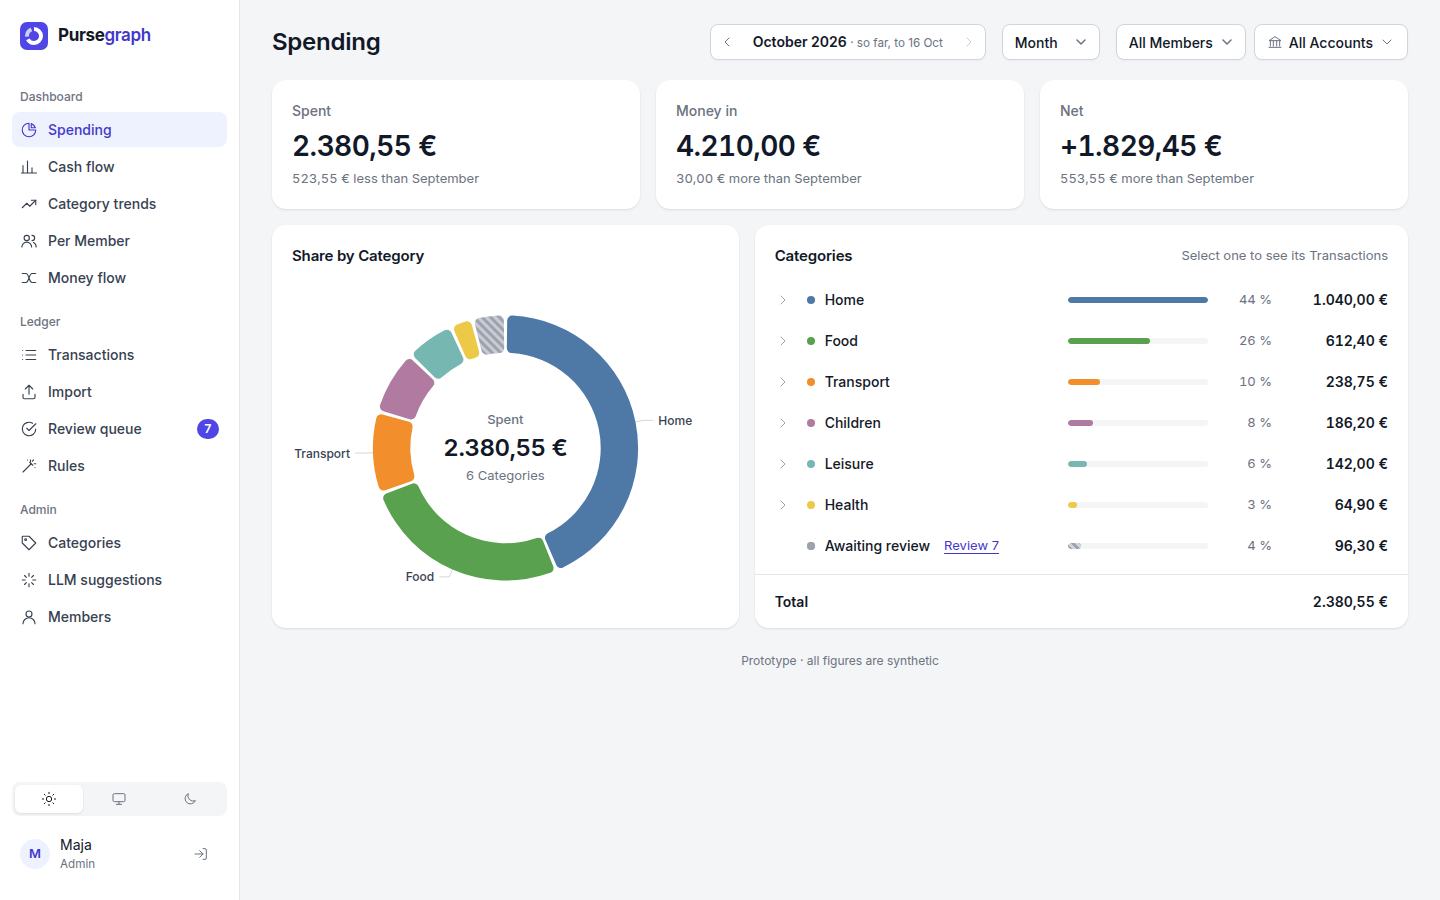
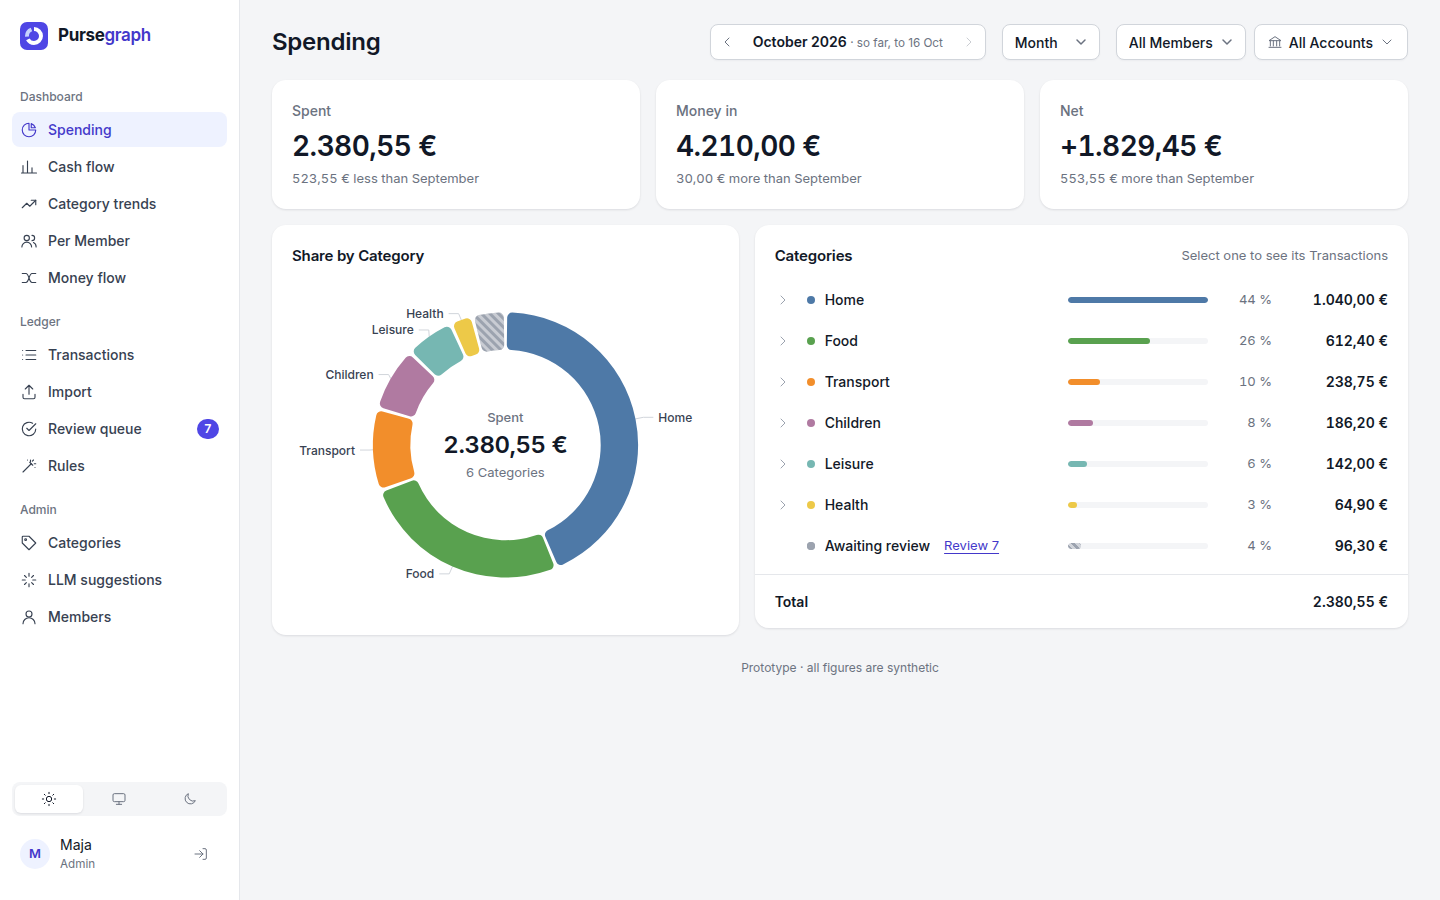
PROTOTYPE (#62): finish-review fixes (palette, donut labels, phone controls)

diff --git a/prototypes/62-visual-direction/index.html b/prototypes/62-visual-direction/index.html
@@ -124,9 +124,8 @@ select.btn { appearance: none; padding-right: 32px; background-image: url("data:
 .tile .compare { color: var(--muted); font-size: 13px; margin-top: 2px; }
 .dot { width: 8px; height: 8px; border-radius: 50%; display: inline-block; flex: none; }
 
-.grid { display: grid; grid-template-columns: minmax(340px, 5fr) minmax(0, 7fr); gap: var(--s-4); align-items: stretch; }
+.grid { display: grid; grid-template-columns: minmax(340px, 5fr) minmax(0, 7fr); gap: var(--s-4); align-items: start; }
 .grid > .card:first-child { display: flex; flex-direction: column; }
-.grid > .card:first-child .donut-wrap { margin-block: auto; }
 .grid > .card:first-child .donut-wrap { flex: none; height: 340px; }
 .donut-wrap { position: relative; height: 340px; margin: var(--s-2) var(--s-4) var(--s-5); }
 .donut { position: absolute; inset: 0; }
@@ -192,15 +191,17 @@ select.btn { appearance: none; padding-right: 32px; background-image: url("data:
   .view-head { gap: var(--s-2); margin-bottom: var(--s-4); }
   .view-head h1 { font-size: 20px; flex-basis: 100%; }
   .period { flex: 1; justify-content: space-between; }
-  .filters { width: 100%; } .filters .btn { flex: 1; }
-  .period { flex: 1 1 200px; }
+  .filters { flex: 1 1 0; min-width: 0; flex-wrap: nowrap; } .filters .btn { flex: 1 1 0; min-width: 0; overflow: hidden; text-overflow: ellipsis; }
+  .filters .btn .icon { display: none; }
+  .period { flex-basis: 100%; }
   .unit { flex: none; }
   .tiles { gap: var(--s-2); }
   .tile { padding: var(--s-3) 10px; }
   .tile .label { font-size: 12px; }
   .tile .value { font-size: 15px; letter-spacing: -0.01em; white-space: nowrap; }
   .grid > .card:first-child .donut-wrap { height: 280px; }
-  .donut-center .v { font-size: 19px; }
+  .donut-center .v { font-size: 17px; }
+  .donut-center .k, .donut-center .s { font-size: 12px; }
   .awaiting .name a { display: none; }
   .tile .compare { display: none; }
   .grid { grid-template-columns: 1fr; }
@@ -394,18 +395,19 @@ const mix = (a, b, t) => '#' + [1, 3, 5].map(i => Math.round(parseInt(a.substr(i
 const reduced = matchMedia('(prefers-reduced-motion: reduce)').matches;
 const chart = echarts.init(document.getElementById('donut'), null, { renderer: 'svg' });
 const narrow = () => document.getElementById('donut').clientWidth < 420;
+const labelled = i => CATS[i].key !== 'awaiting' && (!narrow() || CATS[i].amount / total >= 0.05);
 const draw = (animate) => chart.setOption({
   animation: animate && !reduced, animationDuration: 700, animationEasing: 'cubicOut',
   tooltip: { trigger: 'item', confine: true, backgroundColor: css('--card'), borderColor: css('--line'), textStyle: { color: css('--ink'), fontFamily: 'Inter' },
              formatter: p => `${p.name}<br><b>${eur(p.value)}</b> · ${Math.round(p.percent)} %` },
   series: [{
-    type: 'pie', radius: narrow() ? ['40%', '58%'] : ['56%', '78%'], padAngle: 1.5, itemStyle: { borderRadius: 5 },
-    label: { color: css('--ink-2'), fontFamily: 'Inter', fontSize: 12, fontWeight: 500, overflow: 'none', alignTo: narrow() ? 'edge' : 'none', edgeDistance: 4, formatter: p => p.percent >= 8 ? p.name : '' },
+    type: 'pie', radius: narrow() ? ['47%', '66%'] : ['56%', '78%'], padAngle: 1.5, itemStyle: { borderRadius: 5 },
+    label: { color: css('--ink-2'), fontFamily: 'Inter', fontWeight: 500, overflow: 'none', alignTo: narrow() ? 'edge' : 'none', edgeDistance: 2, fontSize: narrow() ? 11 : 12, formatter: p => labelled(p.dataIndex) ? p.name : '' },
     labelLine: { length: 8, length2: 10, lineStyle: { color: css('--line-strong') } },
     emphasis: { scale: true, scaleSize: 6 },
     data: CATS.map((c, i) => ({ name: c.name, value: c.amount,
-      labelLine: { show: c.amount / total >= 0.08 },
-      itemStyle: { color: openIndex == null || openIndex === i ? css(colourVar(c)) : mix(css(colourVar(c)), css('--card'), 0.3), decal: c.key === 'awaiting' ? { symbol: 'rect', dashArrayX: [1, 0], dashArrayY: [3, 3], rotation: Math.PI / 4, color: 'rgba(255,255,255,.45)' } : null } })),
+      labelLine: { show: labelled(i) },
+      itemStyle: { color: openIndex == null || openIndex === i ? css(colourVar(c)) : css('--line-strong'), decal: c.key === 'awaiting' ? { symbol: 'rect', dashArrayX: [1, 0], dashArrayY: [3, 3], rotation: Math.PI / 4, color: 'rgba(255,255,255,.45)' } : null } })),
   }],
 }, { notMerge: true });
 draw(true);
